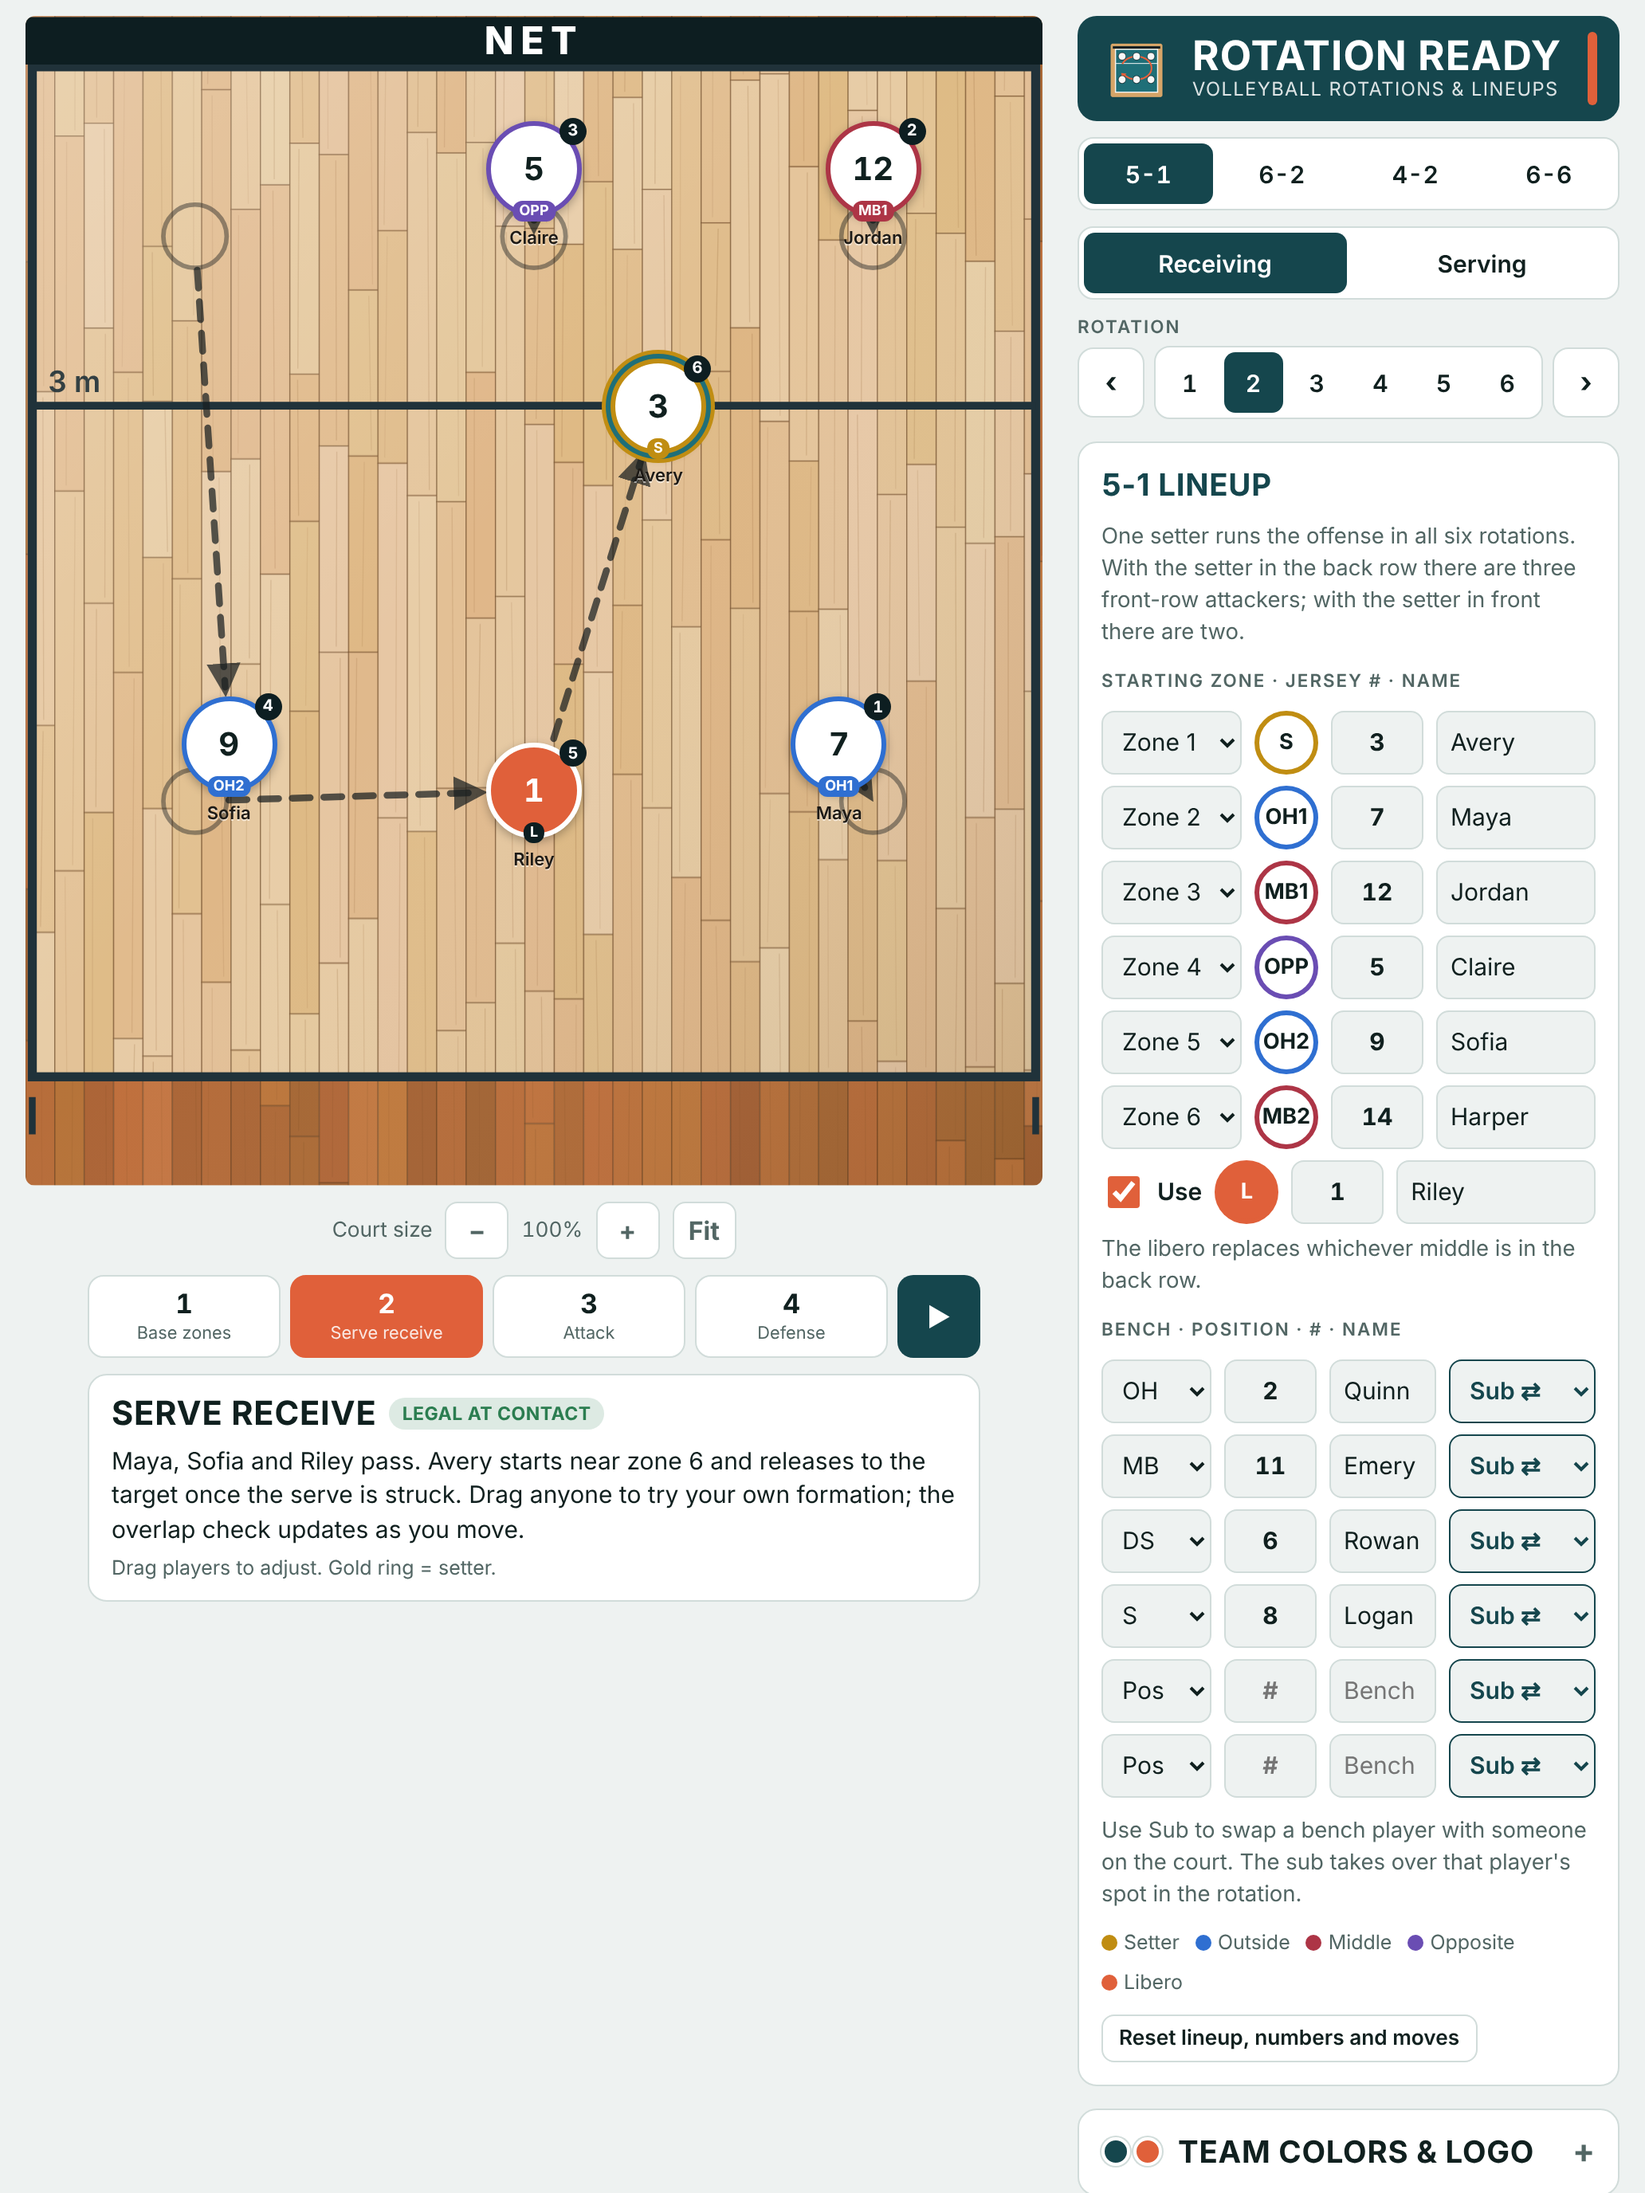
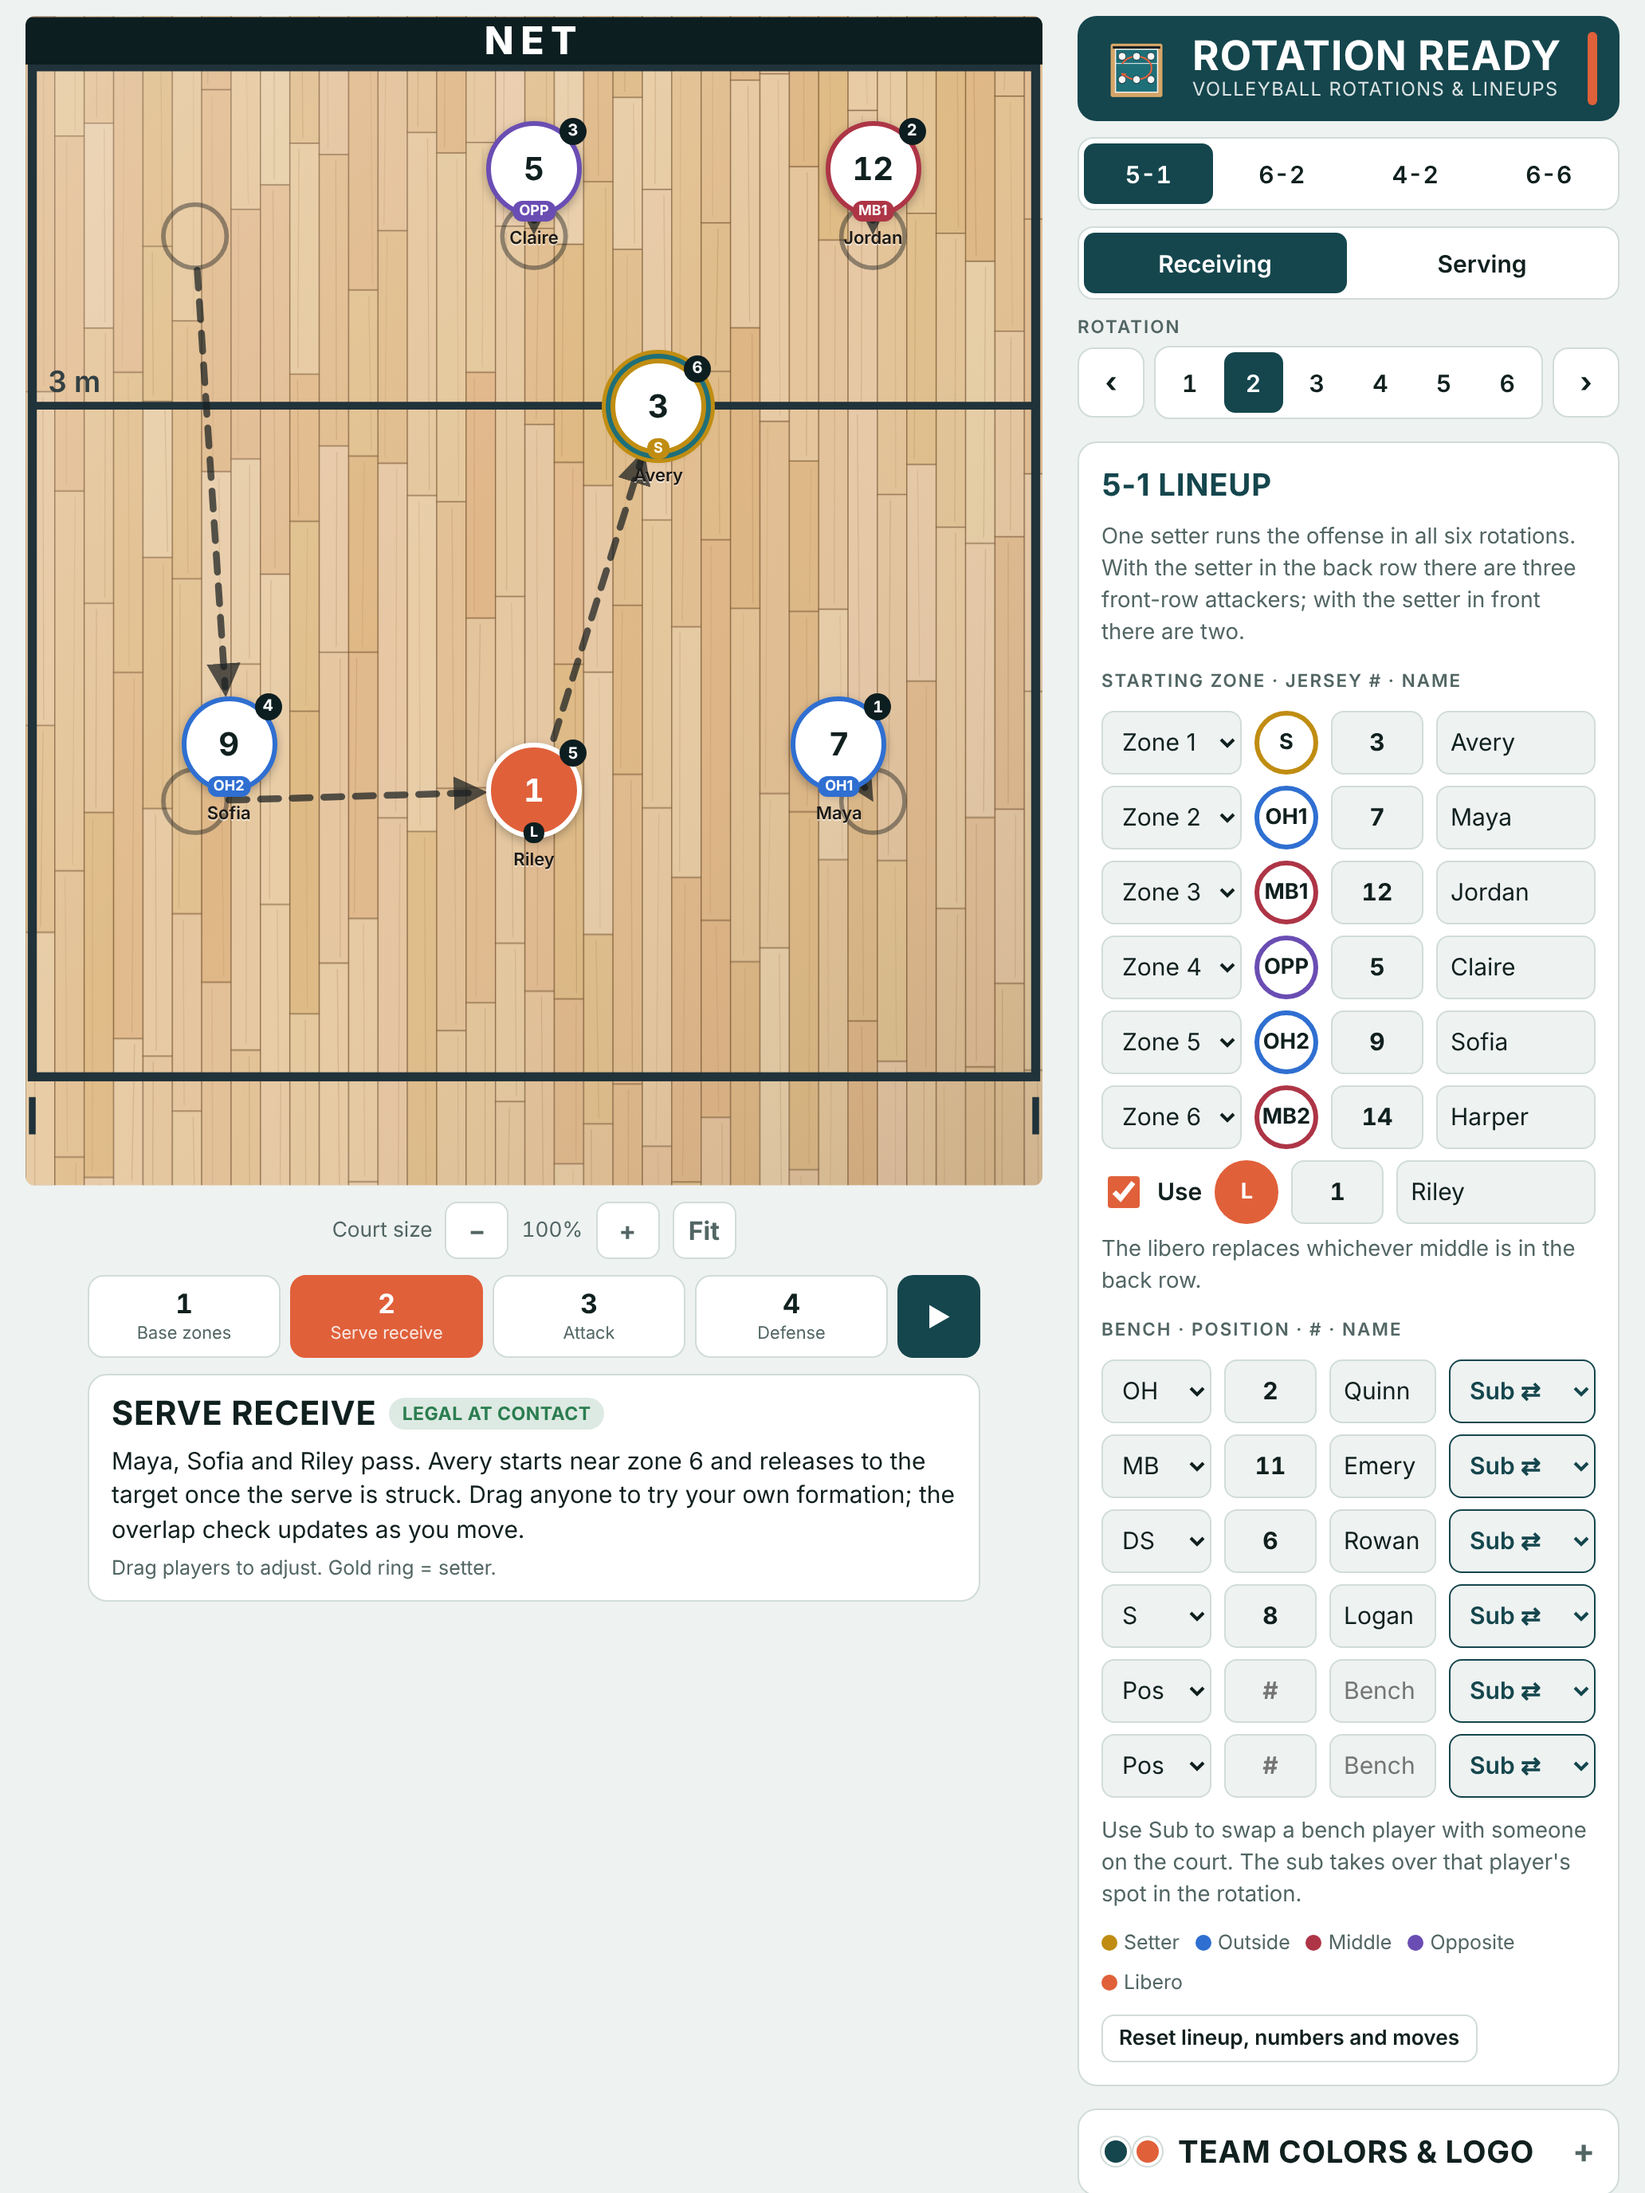
Same maple wood inside and outside the court
Claude-Session: https://claude.ai/code/session_01XjvadqE4PRY1XXpJhyDyr2

Changed region(s): [[0.0, 0.4688, 0.6512, 0.5625]]

diff --git a/www/index.html b/www/index.html
@@ -103,7 +103,7 @@ h1{font-family:var(--display);font-weight:700;font-size:1.6rem;letter-spacing:.0
 .court svg{position:absolute;inset:0;width:100%;height:100%;display:block}
 .c-free{fill:var(--free)} .c-court{fill:var(--court)} .c-sheen{display:none}
 .court.wood{--court-line:var(--wood-line,#20323a);--arrow:rgba(25,30,32,.72)}
-.court.wood .c-court{fill:url(#woodCourt)} .court.wood .c-free{fill:url(#woodFree)} .court.wood .c-sheen{display:inline}
+.court.wood .c-court{fill:url(#woodCourt)} .court.wood .c-free{fill:url(#woodCourt)} .court.wood .c-sheen{display:inline}
 .court.wood .c-zone{opacity:.14}
 .court.wood .c-txt{fill:var(--court-line);opacity:.9}
 .court.wood .nm{color:#1d1a16;text-shadow:0 1px 0 rgba(255,255,255,.55)} .c-line{stroke:var(--court-line);fill:none}
@@ -594,7 +594,7 @@ function buildWood(){
         const gx=x+W*(.25+rnd()*.5);out+=`<line x1="${gx.toFixed(3)}" y1="${(y+.05).toFixed(3)}" x2="${(gx+(rnd()-.5)*.05).toFixed(3)}" y2="${(y+len-.05).toFixed(3)}" stroke="rgba(120,70,25,${(.08+rnd()*.1).toFixed(2)})" stroke-width=".01"/>`;
         y+=len;}}
     p.innerHTML=out;defs.appendChild(p);}
-  pat('woodCourt',34,58,74,9);pat('woodFree',26,52,47,10);
+  pat('woodCourt',34,58,74,9);
 }
 function applyTeam(){
   const t=team(),st=document.documentElement.style,custom=t.primary!==DEF_TEAM.primary||t.accent!==DEF_TEAM.accent;
